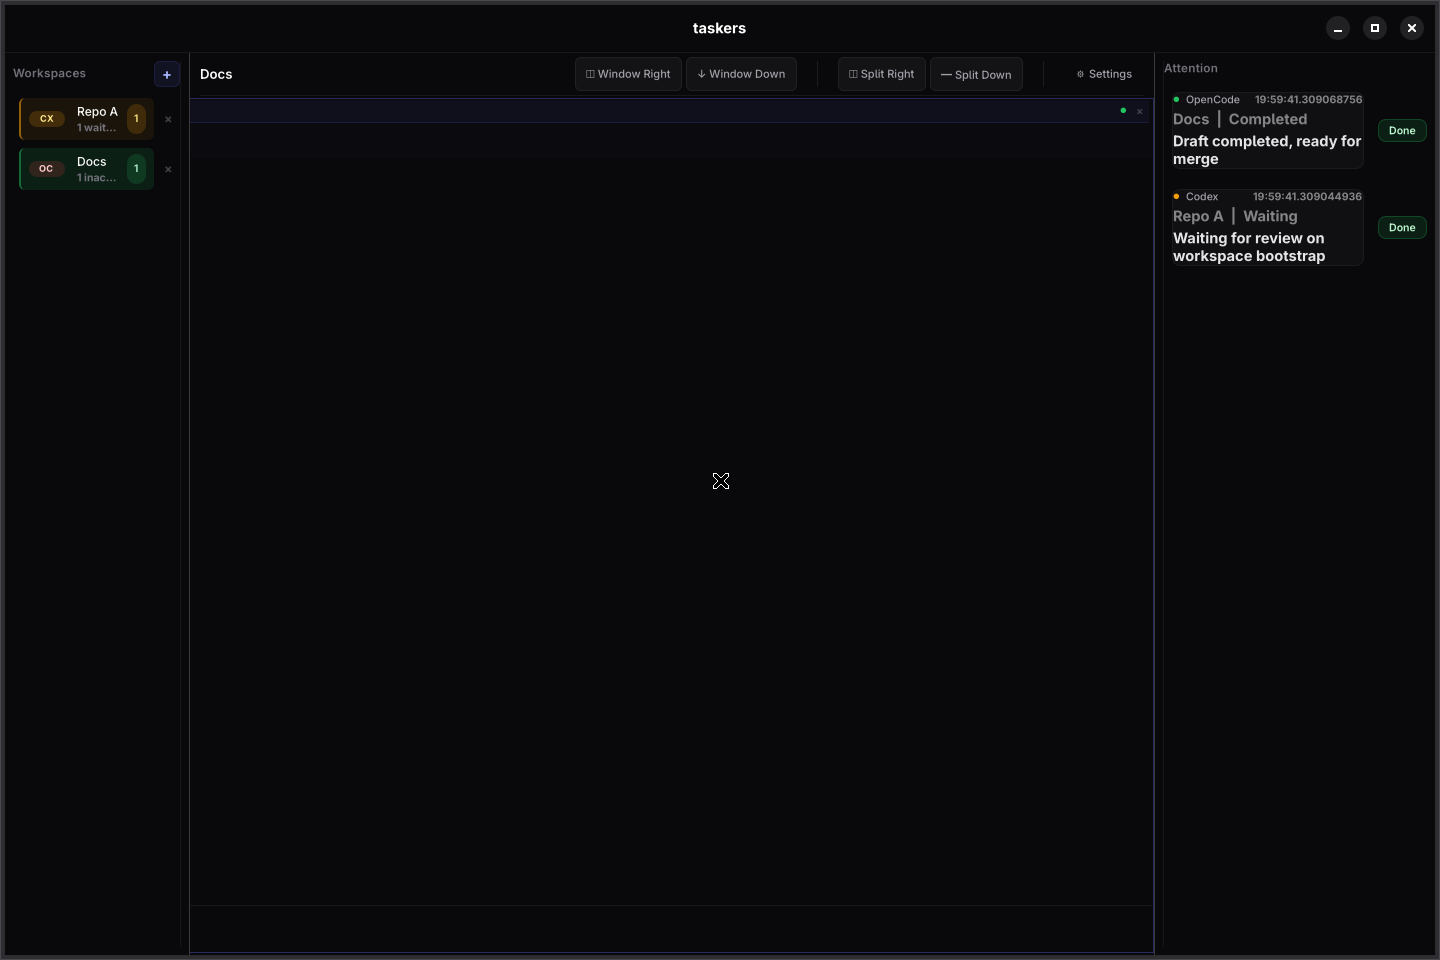
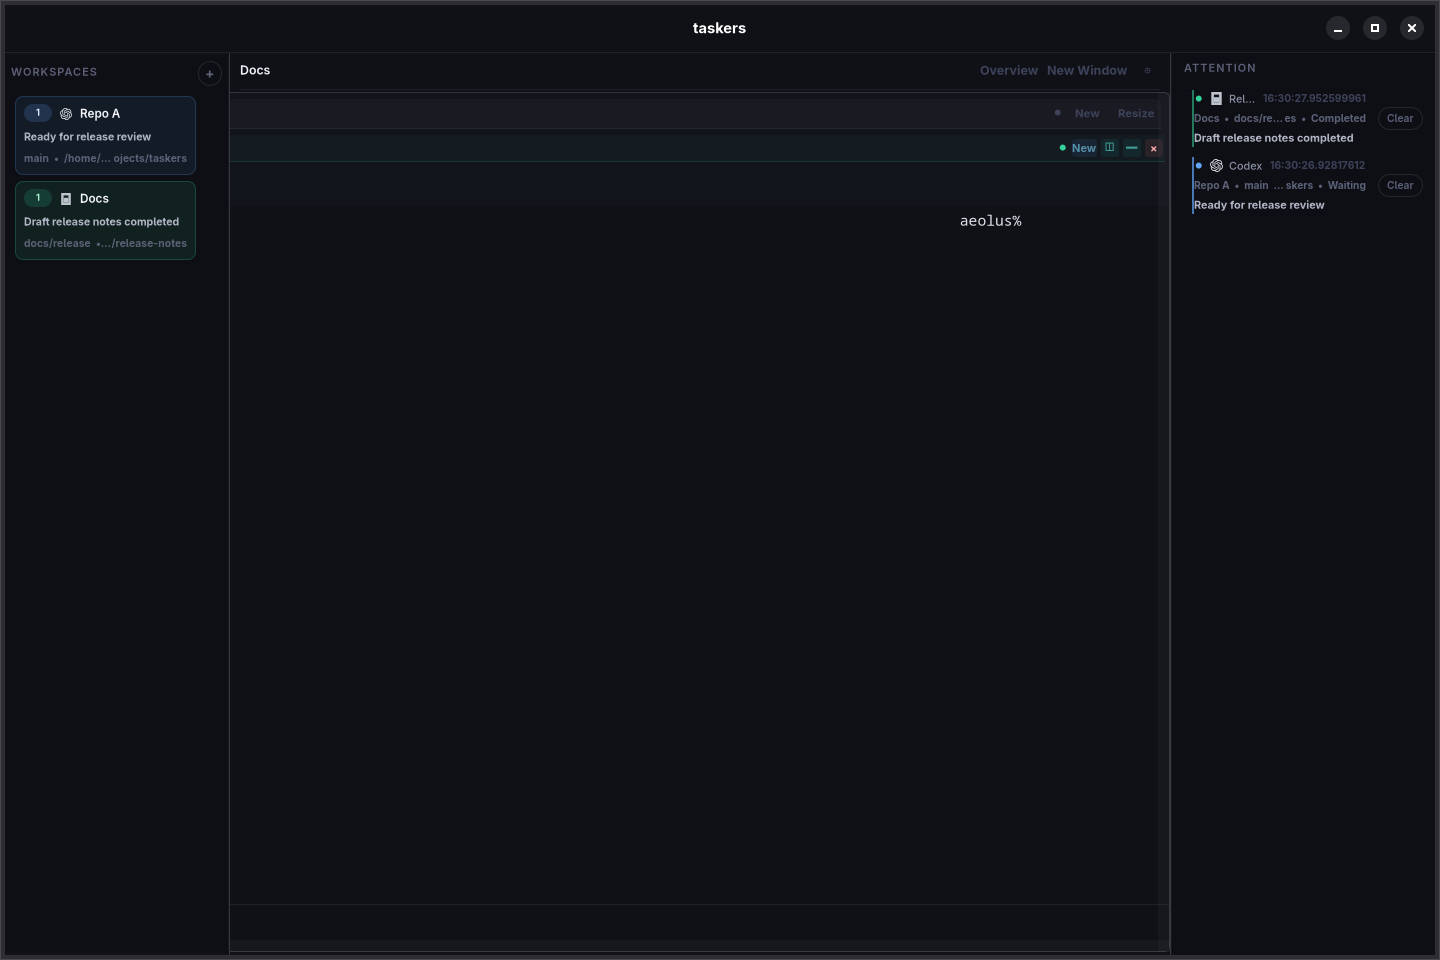
docs: add release checklist and refresh screenshots

diff --git a/docs/release.md b/docs/release.md
@@ -1,0 +1,85 @@
+# Release Prep
+
+Use this checklist before publishing a new `taskers` release.
+
+## 1. Finalize The Repo State
+
+- Make sure the release work is recorded clearly in `jj`.
+- Describe the current change with `jj desc -m "<type>: <summary>"` if needed.
+- Split unrelated work into separate changes before publishing.
+- Bump the workspace version in `Cargo.toml` and update any internal dependency version pins that still reference the previous release.
+
+## 2. Refresh Release Assets
+
+- Regenerate the README screenshots:
+
+```bash
+./scripts/capture_demo_screenshots.sh
+```
+
+- Review the updated files in `docs/screenshots/`.
+- Update `README.md` if the screenshots or release notes no longer match the current UI.
+
+## 3. Run Local Verification
+
+- Run the full test suite:
+
+```bash
+cargo test
+```
+
+- Run the GTK smoke checks:
+
+```bash
+./scripts/smoke_taskers_ui.sh
+./scripts/smoke_taskers_focus_churn.sh
+```
+
+- Build the Ghostty runtime asset that the published crate expects:
+
+```bash
+./scripts/build_ghostty_runtime_bundle.sh
+```
+
+The output asset name must match:
+
+```text
+taskers-ghostty-runtime-v<version>-<target>.tar.xz
+```
+
+- Dry-run crate publishing in dependency order:
+
+```bash
+cargo publish --dry-run -p taskers-domain
+cargo publish --dry-run -p taskers-control
+cargo publish --dry-run -p taskers-runtime
+cargo publish --dry-run -p taskers-ghostty
+cargo publish --dry-run -p taskers-cli
+cargo publish --dry-run -p taskers
+```
+
+## 4. Publish
+
+- Create a GitHub release draft tagged `v<version>`.
+- Upload the matching Ghostty runtime bundle from `dist/`.
+- Publish the crates to crates.io in the same order as the dry-run:
+
+```bash
+cargo publish -p taskers-domain
+cargo publish -p taskers-control
+cargo publish -p taskers-runtime
+cargo publish -p taskers-ghostty
+cargo publish -p taskers-cli
+cargo publish -p taskers
+```
+
+## 5. Post-Publish Check
+
+- Verify a clean install path:
+
+```bash
+cargo install taskers --locked
+taskers --demo
+```
+
+- Confirm the published crate can bootstrap the matching runtime asset on first launch.

diff --git a/README.md b/README.md
@@ -8,11 +8,11 @@ It keeps per-agent status visible in the workspace strip, routes attention-worth
 
 Agent-aware workspace navigation and attention handling:
 
-![Taskers demo showing workspace status chips and attention cards](docs/screenshots/demo-attention.png)
+![Taskers demo showing workspace cards and the attention sidebar](docs/screenshots/demo-attention.png)
 
-Split workspace layout with grouped panes inside a top-level workspace window:
+Grouped panes inside a workspace window, with visible top-level controls and release-tracking context:
 
-![Taskers demo showing a multi-window terminal layout](docs/screenshots/demo-layout.png)
+![Taskers demo showing a split workspace window with visible top-level controls](docs/screenshots/demo-layout.png)
 
 ## Tiling model
 
@@ -85,6 +85,10 @@ When refreshing `vendor/ghostty`, run the large-file check before pushing:
 
 This fails if new files over 1 MiB appear outside the approved Ghostty allowlist, or if an
 approved file grows past the repo-local `jj` limit.
+
+## Release Prep
+
+For the publish checklist and screenshot refresh workflow, see [docs/release.md](docs/release.md).
 
 ## UI smoke test
 
